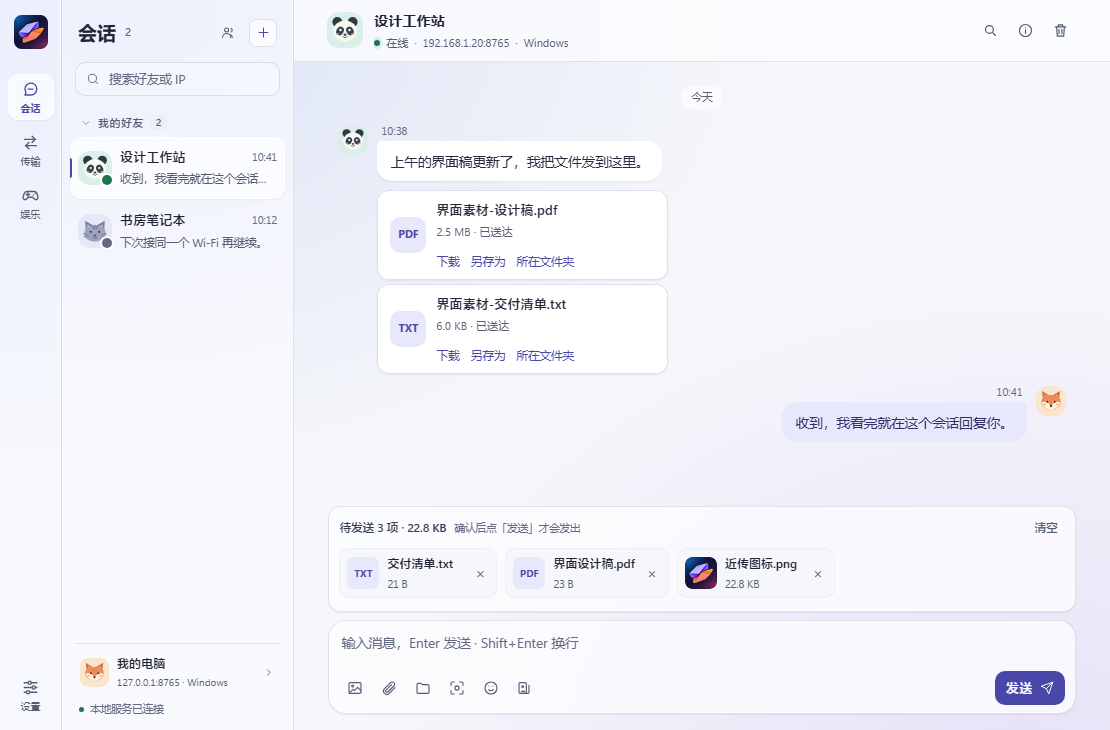
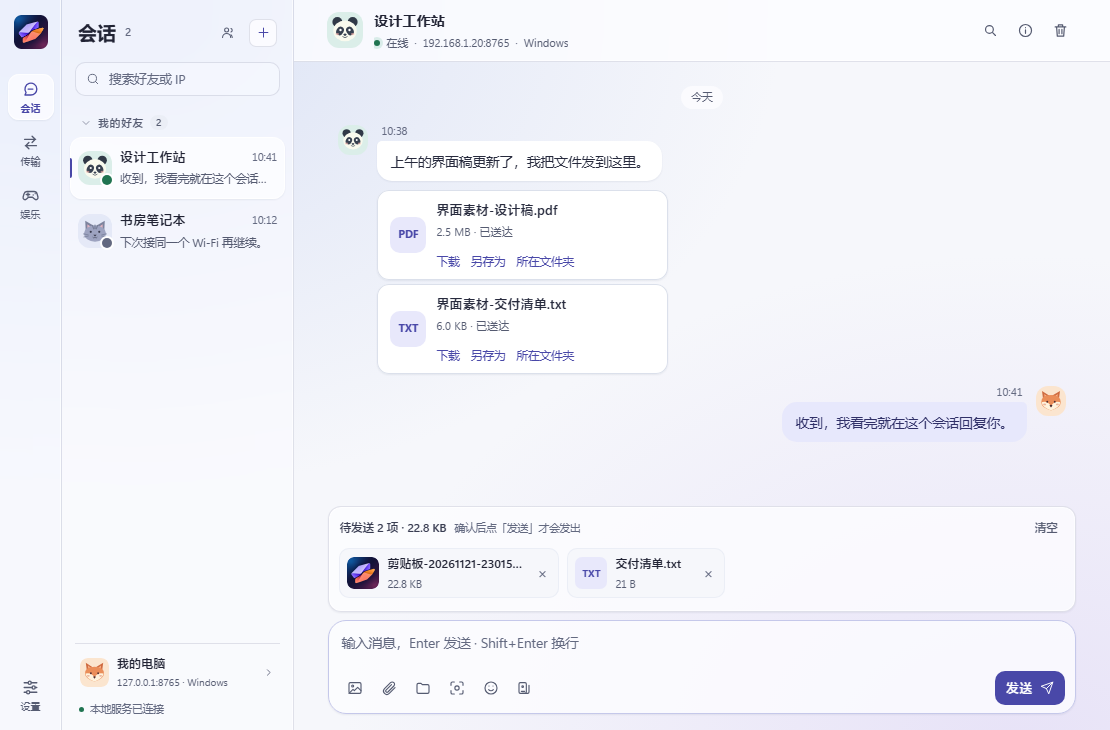
Release JinChuang v1.6.2 with clipboard image attachments

Changed region(s): [[0.4595, 0.7534, 0.7351, 0.8137], [0.3063, 0.7534, 0.4595, 0.8137]]

diff --git a/web/app.js b/web/app.js
@@ -2357,6 +2357,21 @@ $('fileInput').onchange = e => { queueItems(filesToItems(e.target.files, false))
 $('imageInput').onchange = e => { queueItems(filesToItems(e.target.files, false)); e.target.value=''; };
 $('folderInput').onchange = e => { queueItems(filesToItems(e.target.files, true)); e.target.value=''; };
 
+document.addEventListener('paste', e => {
+  if(e.defaultPrevented || !current || surface !== 'chats' || !convOf(current)) return;
+  const target = e.target;
+  const input = $('input');
+  if(!$('chatPane').contains(target) && target !== document.body && target !== document.documentElement) return;
+  if(target !== input && target.closest?.('input, textarea, select, [contenteditable]')) return;
+  if(['modalMask','lightbox','chatSearchPanel','gameMask','mjFrameMask'].some(id =>
+       !$(id).classList.contains('hidden'))) return;
+  const pictures = collectClipboardImages(e.clipboardData);
+  if(!pictures.length) return;
+  e.preventDefault();
+  queueItems(pictures);
+  input.focus({preventScroll:true});
+});
+
 const chatRoot = $('chatRoot');
 let dragDepth = 0;
 chatRoot.addEventListener('dragenter', e => { e.preventDefault(); dragDepth++; if(current && surface === 'chats') $('dropMask').classList.remove('hidden'); });

diff --git a/web/clipboard.js b/web/clipboard.js
@@ -1,0 +1,22 @@
+/* Read only the files carried by the user's paste event. */
+'use strict';
+
+function collectClipboardImages(clipboard, now = new Date()){
+  if(!clipboard || clipboard.getData('text/plain').trim()) return [];
+  const formats = {
+    'image/png':'png', 'image/jpeg':'jpg', 'image/gif':'gif',
+    'image/webp':'webp', 'image/bmp':'bmp', 'image/avif':'avif'
+  };
+  const pad = n => String(n).padStart(2,'0');
+  const date = now.getFullYear() + pad(now.getMonth()+1) + pad(now.getDate());
+  const clock = pad(now.getHours()) + pad(now.getMinutes()) + pad(now.getSeconds());
+  const pictures = Array.from(clipboard.files).filter(file => file.size && Object.hasOwn(formats,file.type));
+  return pictures.map((picture,i) => {
+    const suffix = pictures.length > 1 ? '-' + (i+1) : '';
+    const name = '剪贴板-' + date + '-' + clock + suffix + '.' + formats[picture.type];
+    const file = new File([picture],name,{type:picture.type,lastModified:now.getTime()});
+    return {file,name,rel:name};
+  });
+}
+
+if(typeof module === 'object' && module.exports) module.exports = {collectClipboardImages};

diff --git a/web/index.html b/web/index.html
@@ -144,7 +144,7 @@
           <textarea id="input" aria-label="消息内容" rows="1" placeholder="输入消息，Enter 发送 · Shift+Enter 换行"></textarea>
           <div class="composer-foot">
             <div class="tools">
-              <button class="tool" id="btnImage" title="添加图片" aria-label="添加图片">
+              <button class="tool" id="btnImage" title="添加图片（也可 Ctrl+V 粘贴）" aria-label="添加图片">
                 <svg viewBox="0 0 24 24"><rect x="3" y="4" width="18" height="16" rx="2"/><circle cx="8.5" cy="9" r="1.5"/><path d="M21 16l-5-5-5 5-2-2-6 6"/></svg>
               </button>
               <button class="tool" id="btnFile" title="添加文件" aria-label="添加文件">
@@ -278,6 +278,7 @@
 <input type="file" id="folderInput" webkitdirectory directory multiple hidden>
 
 <script src="/static/appearance.js"></script>
+<script src="/static/clipboard.js"></script>
 <script src="/static/app.js"></script>
 <script src="/static/chat-tools.js"></script>
 <script src="/static/game.js"></script>

diff --git a/server.py b/server.py
@@ -44,8 +44,9 @@ from http.server import BaseHTTPRequestHandler, ThreadingHTTPServer
 from pathlib import Path
 
 APP_NAME = "近传"
-VERSION = "1.6.1"
+VERSION = "1.6.2"
 BUILD_DATE = "2026-11-21"
+WINDOWS_RELEASE_ASSET = "default.exe"
 # 更新源：写死在这里（客户端界面不暴露、不可改）。
 # 仓库：https://github.com/kiu9676-cmd/JinChuang
 DEFAULT_UPDATE_REPO = "kiu9676-cmd/JinChuang"
@@ -454,12 +455,12 @@ def fallback_release_info(repo):
     if not tag:
         return None
     asset_url = "https://github.com/{}/releases/download/{}/{}".format(
-        repo, tag, urllib.parse.quote("近传.exe"))
+        repo, tag, urllib.parse.quote(WINDOWS_RELEASE_ASSET))
     return {
         "ok": True, "repo": repo, "tag": tag, "latest": tag.lstrip("vV"),
         "notes": "", "publishedAt": "", "fallback": True,
         "htmlUrl": "https://github.com/{}/releases/tag/{}".format(repo, tag),
-        "asset": {"name": "近传.exe", "size": 0, "url": asset_url},
+        "asset": {"name": WINDOWS_RELEASE_ASSET, "size": 0, "url": asset_url},
         "current": VERSION,
         "hasUpdate": parse_version(tag) > parse_version(VERSION),
     }

diff --git a/tests/test_release_asset.py b/tests/test_release_asset.py
@@ -1,0 +1,13 @@
+import unittest
+from unittest.mock import patch
+
+import server
+
+
+class ReleaseAssetTests(unittest.TestCase):
+    def test_update_url_uses_published_asset_when_github_api_is_limited(self):
+        with patch.object(server, "latest_tag_via_redirect", return_value="v1.6.2"):
+            result = server.fallback_release_info("kiu9676-cmd/JinChuang")
+        self.assertEqual(result["asset"]["name"], "default.exe")
+        self.assertEqual(result["asset"]["url"],
+            "https://github.com/kiu9676-cmd/JinChuang/releases/download/v1.6.2/default.exe")

diff --git a/README.md b/README.md
@@ -5,7 +5,8 @@
 <p align="center">在同一个局域网里，直接聊天、发图、传文件。</p>
 
 <p align="center">
-  <a href="https://github.com/kiu9676-cmd/JinChuang/archive/refs/heads/main.zip">下载源码</a> ·
+  <a href="https://github.com/kiu9676-cmd/JinChuang/releases/latest/download/default.exe">下载 Windows 版</a> ·
+  <a href="https://github.com/kiu9676-cmd/JinChuang/archive/refs/tags/v1.6.2.zip">下载 v1.6.2 源码</a> ·
   <a href="docs/SHOWCASE.md">功能图览</a> ·
   <a href="#快速开始">快速开始</a> ·
   <a href="docs/USAGE.md">使用手册</a> ·
@@ -21,11 +22,11 @@
 
 <table>
   <tr>
-    <td width="50%"><a href="docs/SHOWCASE.md#发送前检查附件"><img src="docs/images/attachment-draft.png" alt="待发送区展示三种附件"></a><br><b>发送前先检查附件</b><br>拖入或选择文件，确认后再发送。</td>
+    <td width="50%"><a href="docs/SHOWCASE.md#发送前检查附件"><img src="docs/images/attachment-draft.png" alt="待发送区展示粘贴的截图和文件"></a><br><b>发送前先检查附件</b><br>支持粘贴截图或拖入文件，确认后再发送。</td>
     <td width="50%"><a href="docs/SHOWCASE.md#搜索会话和筛选文件"><img src="docs/images/conversation-search.png" alt="会话内搜索并筛选文件"></a><br><b>会话内快速找文件</b><br>按 Ctrl+F 搜索，筛选、定位或下载。</td>
   </tr>
   <tr>
-    <td width="50%"><a href="docs/SHOWCASE.md#添加好友和连接诊断"><img src="docs/images/connection-diagnostics.png" alt="添加好友时查看连接诊断结果"></a><br><b>连不上，先检测</b><br>核对地址、版本和响应时间。</td>
+    <td width="50%"><a href="docs/SHOWCASE.md#添加好友和连接诊断"><img src="docs/images/connection-diagnostics.png" alt="好友资料中查看连接诊断结果"></a><br><b>连不上，先检测</b><br>核对地址、版本和响应时间。</td>
     <td width="50%"><a href="docs/SHOWCASE.md#暂停继续和取消传输"><img src="docs/images/transfer.png" alt="文件传到 40% 后保留进度并暂停"></a><br><b>大文件可以暂停再继续</b><br>保留确认进度，传完用 SHA-256 校验。</td>
   </tr>
 </table>
@@ -36,7 +37,9 @@
 
 ## 快速开始
 
-推荐使用 **Python 3.12**。在两台设备上各运行一份：
+**Windows 便携版**：从 [GitHub Release](https://github.com/kiu9676-cmd/JinChuang/releases/tag/v1.6.2) 下载 `default.exe`。从旧版升级时先退出托盘里的旧程序，新版放在原目录运行即可继续使用原有 `data/`。也可在旧版里通过「设置 → 更新」升级。
+
+**从源码运行**：推荐使用 **Python 3.12**。在两台设备上各运行一份：
 
 ```bash
 git clone https://github.com/kiu9676-cmd/JinChuang.git

diff --git a/docs/SHOWCASE.md b/docs/SHOWCASE.md
@@ -14,9 +14,9 @@
 
 ## 发送前检查附件
 
-把文件拖入会话，或从输入框下方选择图片、文件、文件夹。附件会先进入**待发送**区，能查看文件名、大小和图片缩略图；选错的可以移除，只有点「发送」才会传出。
+把文件拖入会话，或从输入框下方选择图片、文件、文件夹。附件会先进入**待发送**区，能查看文件名、大小和图片缩略图；选错的可以移除，只有点「发送」才会传出。从 v1.6.2 起，在会话里按 `Ctrl+V` / `⌘V` 也可把复制的图片放入待发送区。
 
-![待发送区同时放入 TXT、PDF 和 PNG 三种附件](images/attachment-draft.png)
+![待发送区展示从剪贴板粘贴的 PNG 和选取的 TXT 文件](images/attachment-draft.png)
 
 ## 搜索会话和筛选文件
 
@@ -28,9 +28,9 @@
 
 自动发现不到对方时，点会话列表旁的「+」，输入对方显示的 **IP 或 IP:端口**，先点「检测连接」。近传会显示检测结果、对方版本和响应时间。已添加的设备也可从「好友资料」运行诊断。
 
-![添加好友时检测连接，显示目标地址、版本和响应时间](images/connection-diagnostics.png)
+![已添加的设备可运行诊断，查看目标地址、版本和响应时间](images/connection-diagnostics.png)
 
-截图中的 `127.0.0.1` 和端口是本机双端测试用的。两台电脑互传时，请填写**对方电脑的局域网地址**。
+截图中的 IP 和端口是演示值。两台电脑互传时，请填写**对方电脑的局域网地址**。
 
 ## 暂停继续和取消传输
 

diff --git a/CONTRIBUTING.md b/CONTRIBUTING.md
@@ -11,7 +11,7 @@
 ```bash
 python server.py --no-browser --data-dir ./data/dev
 python -m unittest discover -s tests
-node --test tests/mahjong-engine.test.cjs
+node --test tests/mahjong-engine.test.cjs tests/clipboard.test.cjs
 ```
 
 两个本地实例要分别指定不同的 HTTP 端口、UDP 端口和数据目录。请使用模拟设备名和测试文件。涉及传输的 PR，请说明是否覆盖失败重试、两端重启、旧版互通、文件校验或取消清理；涉及界面的 PR 欢迎附演示截图。
@@ -32,7 +32,7 @@ node --test tests/mahjong-engine.test.cjs
 ```powershell
 py -3.12 -m venv .venv
 .\.venv\Scripts\python.exe -m pip install -r requirements-build.txt
-.\.venv\Scripts\python.exe release.py --build-only --no-git --no-zip --version 1.6.1
+.\.venv\Scripts\python.exe release.py --build-only --no-git --no-zip --version 1.6.2
 ```
 
 产物为 `dist/近传.exe`，也可用 `build.bat` 打包。若要发布新版本，核对 `server.py` 中的版本号、`CHANGELOG.md` 和附件哈希；在 GitHub Release 用 `vX.Y.Z` 作为标签，附上已验证的 `.exe`。派生项目应按需设置自己的更新源。

diff --git a/CHANGELOG.md b/CHANGELOG.md
@@ -3,6 +3,12 @@
 版本号规则：`主版本.次版本.修订号`（`server.py` 里的 `VERSION`）。
 客户端「设置 → 更新」会读 GitHub Release 的 **tag**（`v1.2.0`）和 **body**（本文件对应小节）。
 
+## v1.6.2 · 2026-11-21
+
+- 在会话里可直接粘贴截图或复制的图片。图片先进入待发送区，可以预览或移除，确认后才发送。
+- Windows 包从公开仓库重新构建，排除未使用的旧麻将素材，保留目前内置的四川麻将。
+- 修正 GitHub 接口限流时使用的 Windows 下载文件名。
+
 ## v1.6.1 · 2026-11-21
 
 - 单聊文件支持暂停、继续和取消；暂停保留确认进度，取消仅清理未完成数据。接收端暂不可达时，可以重试清理。

diff --git a/docs/USAGE.md b/docs/USAGE.md
@@ -8,6 +8,8 @@
 2. 在会话列表里选择对方。未自动发现时，点「+」，填对方 IP，例如 `192.168.1.20` 或 `192.168.1.20:8765`；可以先点「检测连接」。
 3. 输入文字，或将附件拖进会话。文件先进入待发送列表，确认后再点「发送」。
 
+从 v1.6.2 起，复制截图或图片后，可在会话里按 `Ctrl+V` / `⌘V` 把它加入待发送区；纯文字仍按正常方式粘贴。
+
 聊天卡片里的「下载」可保存文件。「另存为」和原生文件夹选择需要桌面模式。整目录传输会保留相对目录结构。
 
 ## 暂停、继续、取消
